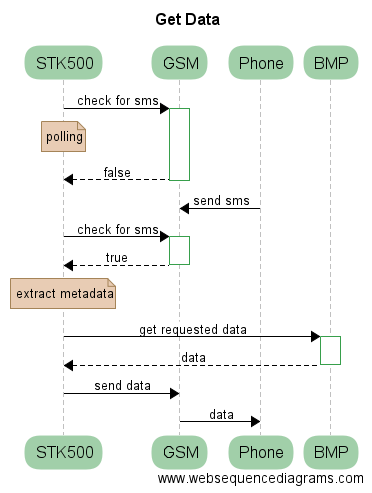
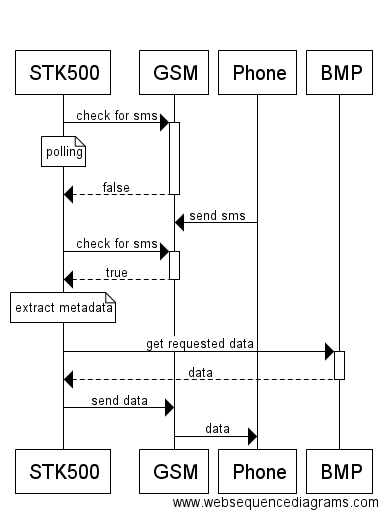
cleaned up main.tex and fixed some images and diagrams

Changed region(s): [[0.0, 0.0913, 0.9758, 1.0], [0.2661, 0.3347, 0.3844, 0.3955], [0.414, 0.0304, 0.5914, 0.0609]]

diff --git a/final-project-report/docs/systemdescription.tex b/final-project-report/docs/systemdescription.tex
@@ -1,0 +1,23 @@
+\section{Systembeskrivelse}
+	
+Dette system er udviklet til at hente data fra en række sensore. Dette gøres ved at sende en sms til et telefonnummer, hvorefter der sendes et svar tilbage med måling fra den ønskede sensor.\\
+
+På figur~\ref{fig:blockdiagram} ses et blokdiagram for systemet. Her på kan systemet største dele ses og hvordan disse kommunikere.
+
+\vskip 0.5cm
+\begin{figure}[h]
+	\centering
+	\includegraphics[width=\linewidth]{figs/blockdiagram.pdf}
+	\caption{Blokdiagram for system.}
+	\label{fig:blockdiagram}
+\end{figure}
+\vskip 0.5cm
+
+Sekvensdiagrammet, figur~\ref{fig:seq-getdata} viser det overordnede flow igennem programmet fra at en bruger har sendt en sms til at samme bruger for de ønskede data tilbage.
+
+\begin{figure}[h]
+	\centering
+	\includegraphics[width=0.55\linewidth]{figs/seq-getdata.png}
+	\caption{Sekvensdiagram for hentning af data.}
+	\label{fig:seq-getdata}
+\end{figure}

diff --git a/final-project-report/itams-grp19-project-report.tex b/final-project-report/itams-grp19-project-report.tex
@@ -10,12 +10,9 @@
 	\pagenumbering{roman}
 	\input{utils/titlepage}
 	\input{utils/indholdsfortegnelser}
-
 	\pagenumbering{arabic}
 	
 	% include sections here
-	\input{docs/project-description}
-	\input{docs/system-description}
+	\input{docs/systemdescription}
 	% include sections before here
-	
 \end{document}
